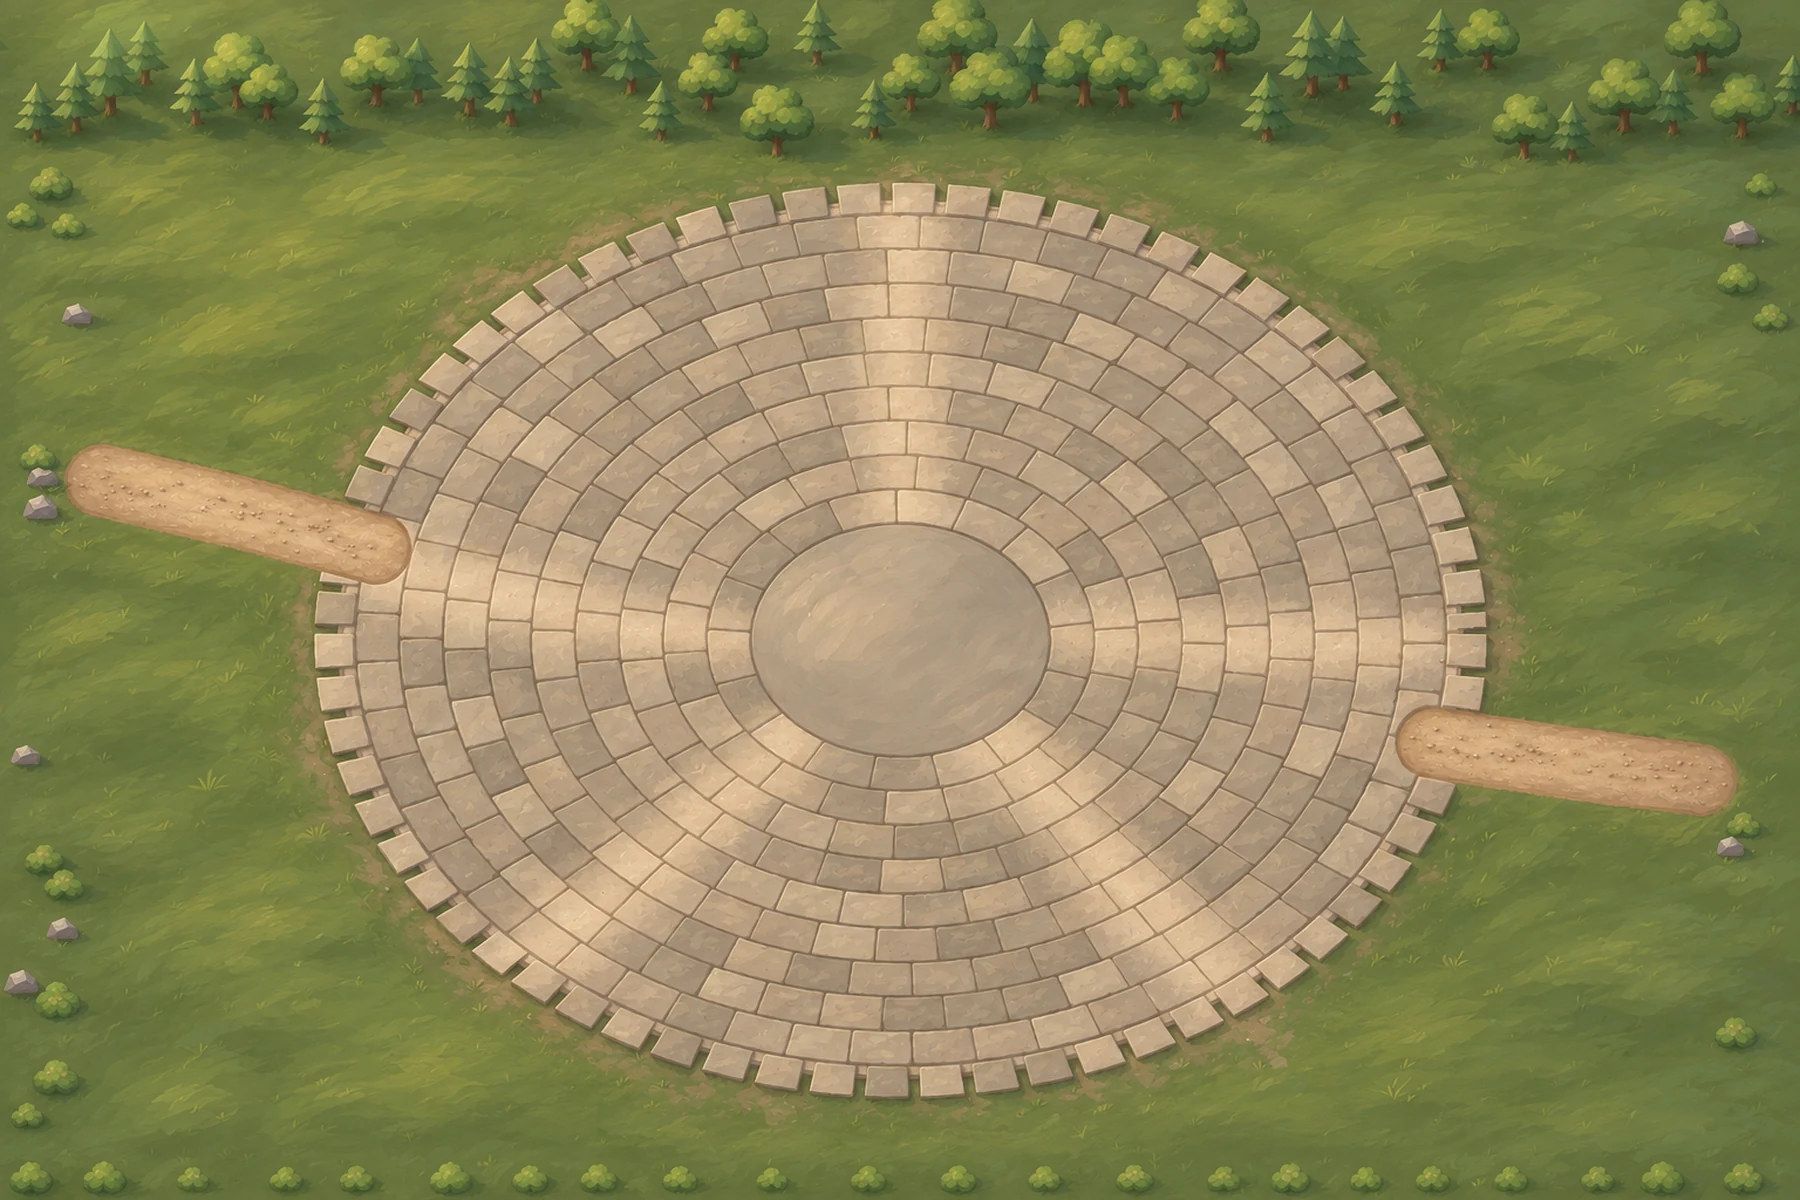
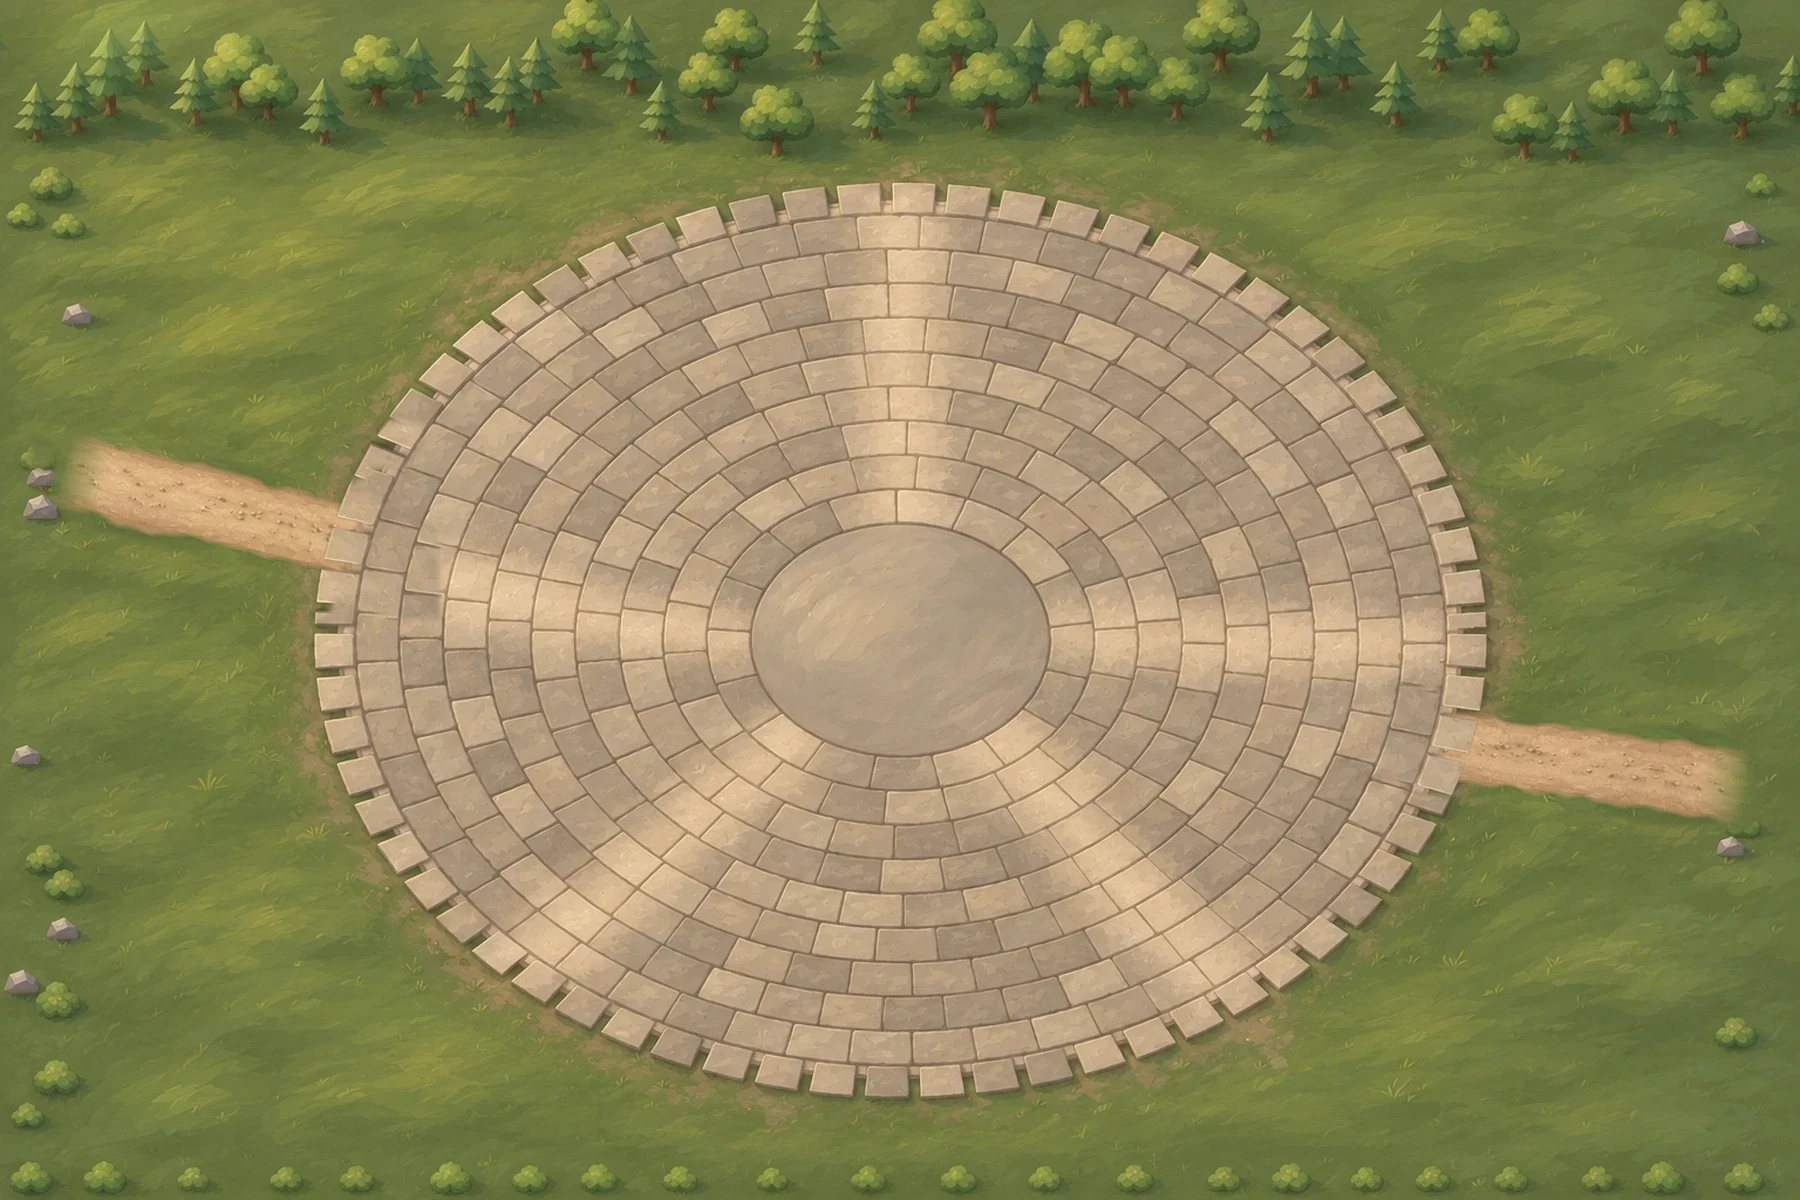
광장 새 바닥의 흙길 끝을 돌바닥 위에서 걷어 내고 톱니 돌 밑으로 이어지게 한다
Claude-Session: https://claude.ai/code/session_01Q8g6pav9n1KLkK9Hed7XSN

diff --git a/design/plaza-floor/fix_v3_paths.py b/design/plaza-floor/fix_v3_paths.py
@@ -1,0 +1,82 @@
+# Codex 광장 바닥(plaza-v3)의 흙길 두 줄을 다듬는다 — 11월 28일 사용자 "흙길 끝이 돌바닥 위에 둥글게 얹혀 어색해".
+#   python3 design/plaza-floor/fix_v3_paths.py
+# 입력: design/plaza-floor/codex-plaza-v3.webp (Codex 원본) → 출력: public/assets/game/rpg/plaza-v3.webp (1800 × 1200)
+# ① 흙길을 통째로 걷어 내고 그 자리를 위아래로 뒤집은 바닥(원은 위아래 대칭)으로 채운다.
+# ② 흙길을 축을 따라 다시 깐다 — 문 쪽 끝은 풀로 흐려지고, 원 쪽은 톱니 고리 밑으로 들어간다(톱니 돌이 흙 위).
+# ③ 가장자리는 들쭉날쭉하게, 테두리는 한 단 짙게.
+import os, numpy as np
+from PIL import Image, ImageFilter
+
+D = os.path.dirname(os.path.abspath(__file__))
+ROOT = os.path.join(D, "..", "..")
+SRC = os.path.join(D, "codex-plaza-v3.webp")
+OUT = os.path.join(ROOT, "public", "assets", "game", "rpg", "plaza-v3.webp")
+
+W, H = 1800, 1200
+CX, CY, SQ = 899.5, 639.5, 0.78
+TEETH_IN, TEETH_OUT = 548, 604        # 톱니 고리(가로 반지름) — 이 안쪽은 돌만
+BOXES = [(30, 420, 440, 620), (1380, 680, 1760, 840)]   # 흙길 두 줄이 있는 칸(x0, y0, x1, y1)
+# 흙길 축: 문 쪽 끝 → 원 쪽 방향 점, 흙 무늬를 가져올 깨끗한 토막(축 위 거리), 반폭
+AXES = [((62, 470), (440, 561), (90, 230), 38), ((1745, 787), (1380, 735), (90, 230), 37)]
+DIRT_EDGE = np.array([176, 140, 98], np.float32)          # 길 가장자리 한 단 짙은 흙
+
+
+def blur(a, r):
+    return np.asarray(Image.fromarray(np.clip(a * 255, 0, 255).astype(np.uint8)).filter(ImageFilter.GaussianBlur(r)), np.float32) / 255
+
+
+def main():
+    im = np.asarray(Image.open(SRC).convert("RGB").resize((W, H), Image.LANCZOS)).astype(np.float32)
+    yy, xx = np.mgrid[0:H, 0:W].astype(np.float32)
+    ell = np.hypot(xx - CX, (yy - CY) / SQ)
+
+    # 흙 칸 찾기 — 따뜻한 황토색(R − B 가 큼)
+    warm = ((im[..., 0] - im[..., 2]) > 62) & (im[..., 0] > 140)
+    box = np.zeros((H, W), bool)
+    for x0, y0, x1, y1 in BOXES:
+        box[y0:y1, x0:x1] = True
+    path = (warm & box).astype(np.float32)
+    path = (blur(path, 4) > 0.25).astype(np.float32)          # 자갈 · 어두운 테두리까지 감싼다
+    grow = (blur(path, 6) > 0.05).astype(np.float32) * box     # 걷어 낼 자리(테두리 그림자 포함)
+
+    # ① 위아래로 뒤집은 바닥으로 채운다
+    flip = im[np.clip(np.round(2 * CY - yy).astype(int), 0, H - 1), xx.astype(int)]
+    g = blur(grow, 3)[..., None]
+    base = im * (1 - g) + flip * g
+
+    # ② · ③ 흙길을 다시 깐다 — 축을 따라 문 쪽 끝에서 톱니 고리 안쪽까지. 흙 무늬는 원래 길 가운데 토막을 거울로 이어 쓴다
+    rng = np.random.default_rng(1128)
+    noise = blur(rng.random((H, W)).astype(np.float32), 7)
+    noise = (noise - noise.mean()) / (noise.std() + 1e-6)
+    green = (flip[..., 1] > flip[..., 0]) & (flip[..., 1] > flip[..., 2])     # 톱니 사이 풀 틈
+    dirt_a = np.zeros((H, W), np.float32)
+    dirt = np.zeros((H, W, 3), np.float32)
+    for (ax, ay), (bx, by), (t0, t1), hw in AXES:
+        L = np.hypot(bx - ax, by - ay); ux, uy = (bx - ax) / L, (by - ay) / L
+        t = (xx - ax) * ux + (yy - ay) * uy                 # 축 위 거리(문 쪽 0)
+        n = -(xx - ax) * uy + (yy - ay) * ux                # 축에서 옆으로 떨어진 거리
+        wob = hw + noise * 2.0 + np.sin(t / 53) * 2.0       # 가장자리를 들쭉날쭉하게
+        side = np.clip((wob - np.abs(n)) / 5.0, 0, 1)
+        head = np.clip(t / 45, 0, 1) ** 0.8                  # 문 쪽 끝이 풀로 흐려진다
+        tail = np.clip((ell - TEETH_IN) / 18, 0, 1)          # 고리 안쪽은 돌만
+        a = side * head * tail * (t > -20) * (t < L + 200)
+        # 흙 무늬: 원래 길의 깨끗한 토막 t0~t1 을 거울로 되풀이
+        span = t1 - t0
+        k = np.mod(t - t0, 2 * span); k = np.where(k > span, 2 * span - k, k) + t0
+        sx = np.clip(np.round(ax + ux * k - uy * n), 0, W - 1).astype(int)
+        sy = np.clip(np.round(ay + uy * k + ux * n), 0, H - 1).astype(int)
+        nn = np.abs(n) < hw - 4
+        tex = np.where(nn[..., None], im[sy, sx], DIRT_EDGE)
+        dirt = np.where((a > dirt_a)[..., None], tex, dirt)
+        dirt_a = np.maximum(dirt_a, a)
+    stone = (ell < TEETH_OUT) & ~green & (flip.mean(axis=2) > 135)   # 톱니 돌(밝은 회색)은 흙 위에 그대로, 그늘진 틈엔 흙
+    dirt_a = dirt_a * np.where(stone, 0, 1)
+    dirt_a = blur(dirt_a, 0.8)[..., None]
+    out = base * (1 - dirt_a) + dirt * dirt_a
+
+    img = Image.fromarray(np.clip(out, 0, 255).astype(np.uint8))
+    img.save(OUT, "WEBP", quality=90, method=6)
+
+
+if __name__ == "__main__":
+    main()
